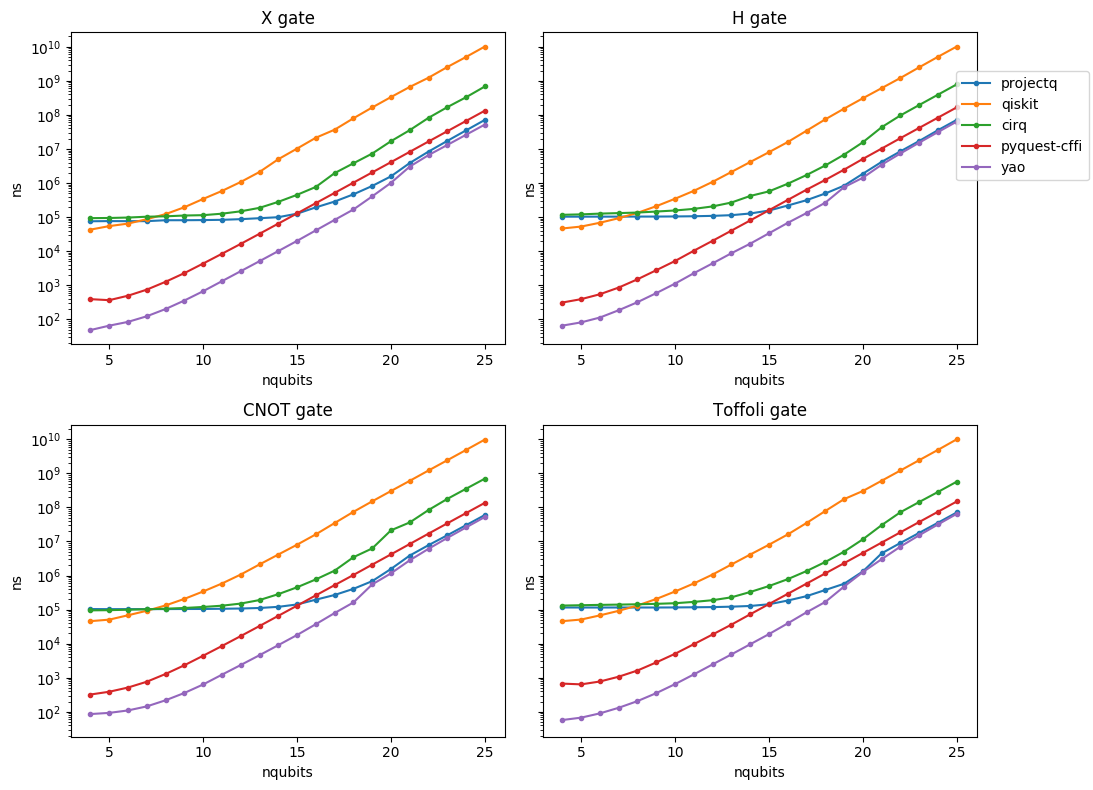
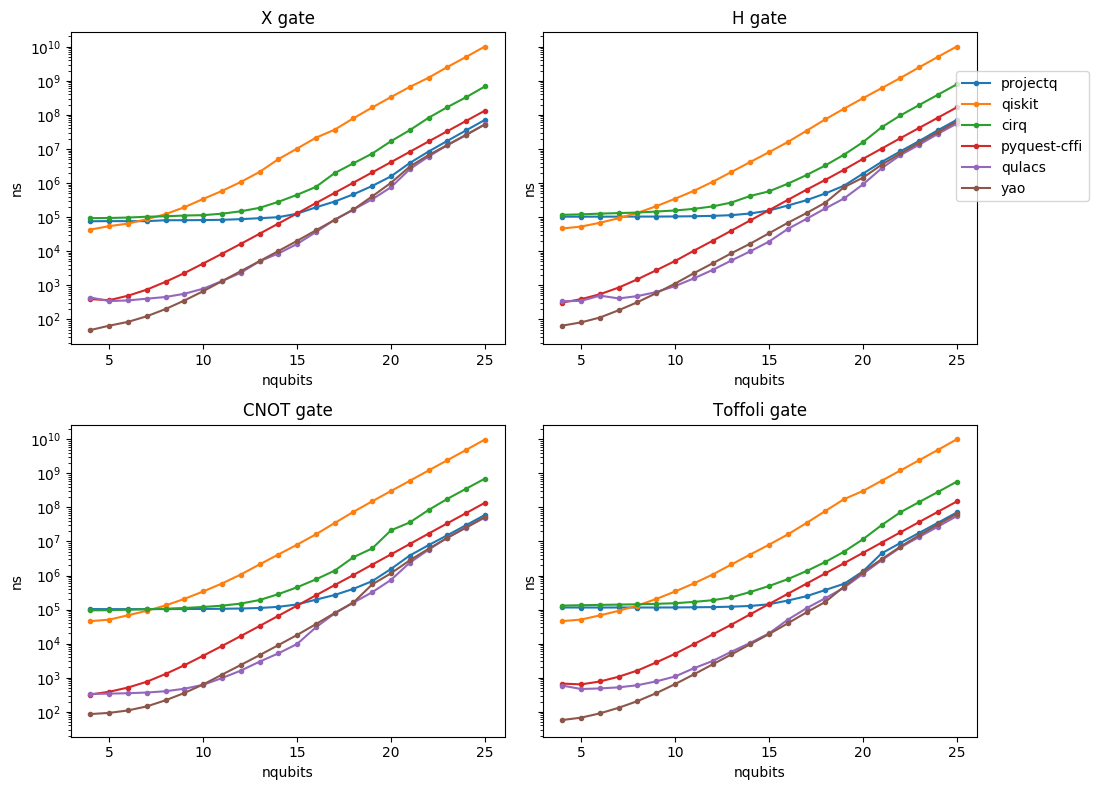
oops, missed qulacs in single gate

diff --git a/bin/utils/plot_utils.py b/bin/utils/plot_utils.py
@@ -62,6 +62,8 @@ def parse_data(packages, labels=['X', 'H', 'T', 'CNOT', 'Toffoli']):
             if len(labels) == 1 and 'QCBM' in labels:
                 gate_data['qulacs'] = wash_benchmark_data(each_package, ['QCBM'])
                 gate_data['qulacs (cuda)'] = wash_benchmark_data(each_package, ['QCBM (cuda)']).rename(columns={'QCBM (cuda)': 'QCBM'})
+            else:
+                gate_data[each_package] = wash_benchmark_data(each_package, labels)
         else:
             gate_data[each_package] = wash_benchmark_data(each_package, labels)
 
